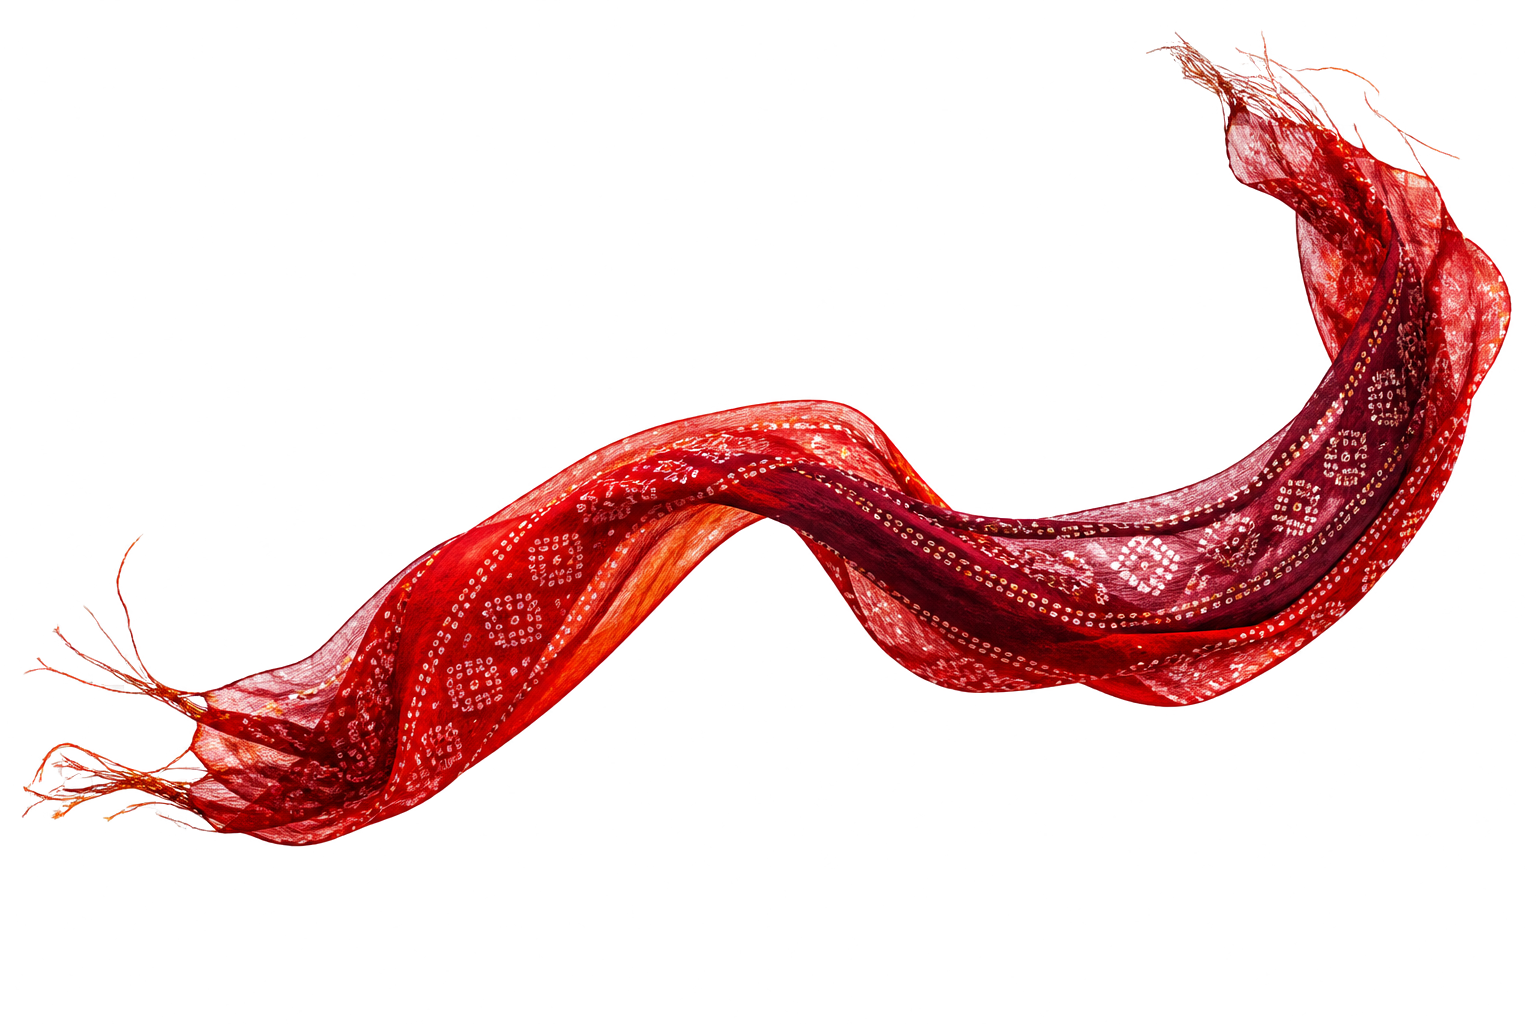
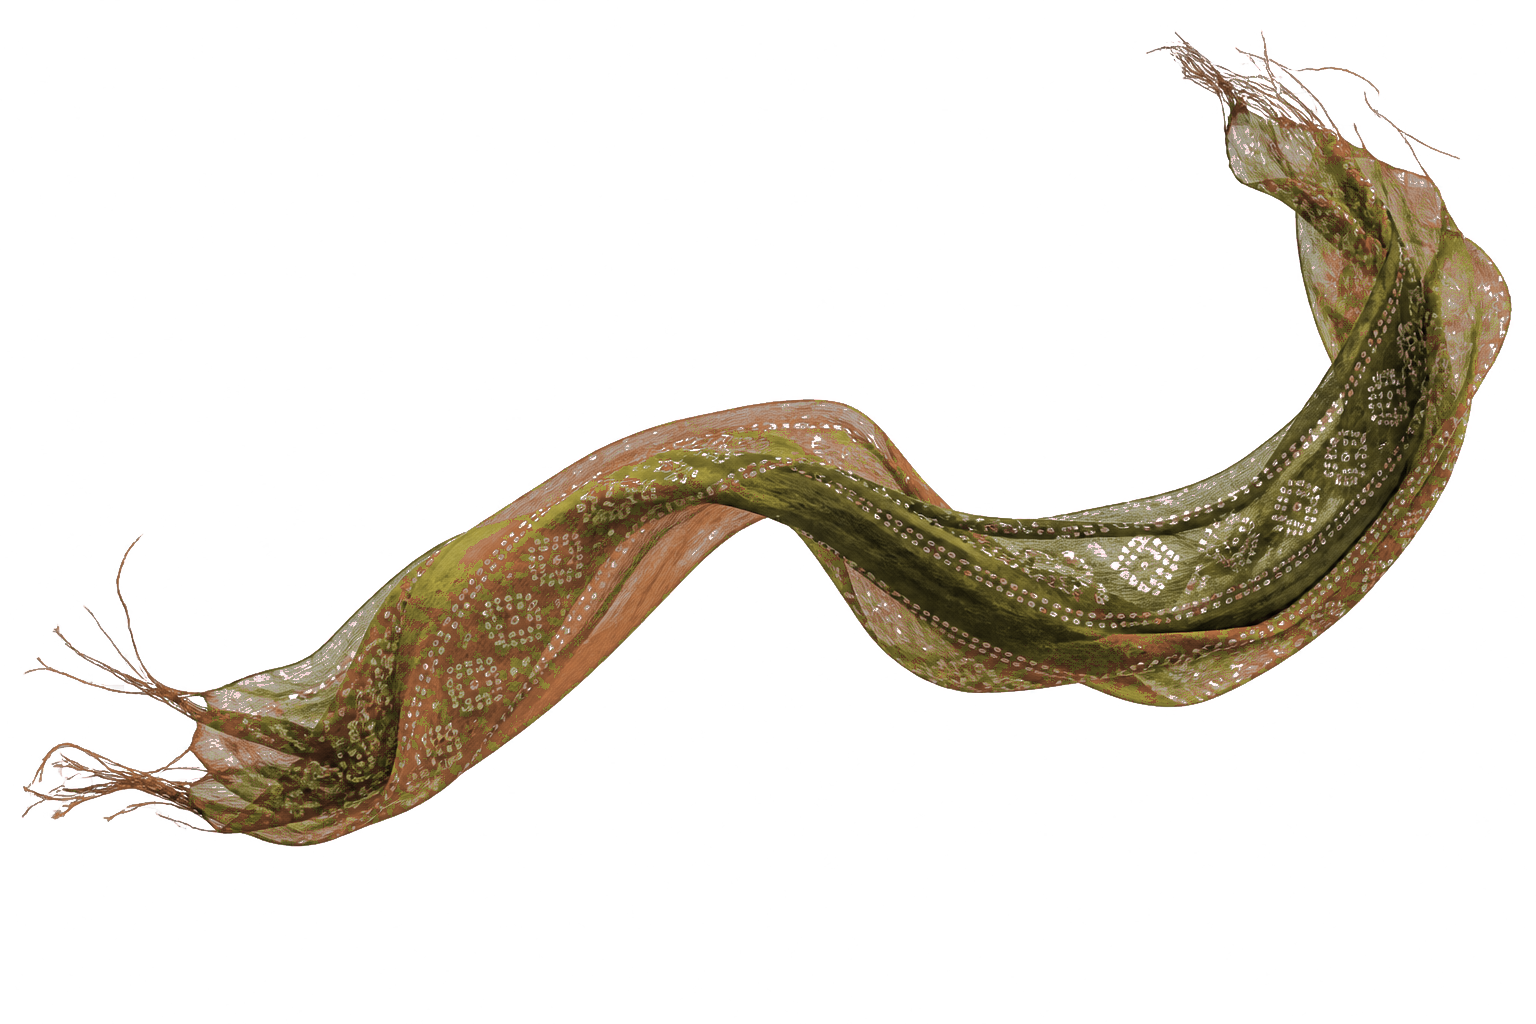
Recolor splash cloths to olive and umber, restore top navigation
Earth-tone textiles now match the parchment splash, and the page
selection bar sits at the top of the home page again.

Changed region(s): [[0.0, 0.0312, 1.0, 0.8438]]

diff --git a/index.html b/index.html
@@ -8,9 +8,19 @@
   <link rel="preconnect" href="https://fonts.gstatic.com" crossorigin />
   <link href="https://fonts.googleapis.com/css2?family=Playfair+Display:ital,wght@0,500;0,700;1,500&family=Cormorant+Garamond:ital,wght@0,400;0,500;0,600;1,400&family=Jost:wght@300;400;500&family=Nunito:wght@700;800&display=swap" rel="stylesheet" />
   <link rel="icon" type="image/png" href="images/favicon.png" />
-  <link rel="stylesheet" href="css/style.css?v=4" />
+  <link rel="stylesheet" href="css/style.css?v=5" />
 </head>
 <body>
+  <nav class="topnav">
+    <a class="brand" href="index.html"><img class="brand-logo" src="images/logo.png" alt="Weave-a-World logo" />Weave-a-World</a>
+    <div class="topnav-links">
+      <a href="index.html" class="active">Home</a>
+      <a href="collection.html">The Ten Dyes</a>
+      <a href="youth.html">Youth Action</a>
+      <a href="about.html">About Us</a>
+    </div>
+  </nav>
+
   <section class="splash" aria-label="Weave a World">
     <div class="splash-bg"></div>
     <div class="splash-grain" aria-hidden="true"></div>
@@ -35,16 +45,6 @@
     </div>
     <a class="splash-scroll" href="#intro">enter the collection</a>
   </section>
-
-  <nav class="topnav">
-    <a class="brand" href="index.html"><img class="brand-logo" src="images/logo.png" alt="Weave-a-World logo" />Weave-a-World</a>
-    <div class="topnav-links">
-      <a href="index.html" class="active">Home</a>
-      <a href="collection.html">The Ten Dyes</a>
-      <a href="youth.html">Youth Action</a>
-      <a href="about.html">About Us</a>
-    </div>
-  </nav>
 
   <header class="hero-home" id="intro">
     <div class="shell hero-home-grid">
@@ -170,6 +170,6 @@
       <p>The Living Colours · Ten Educational Posters on Cultural Preservation · By Charles Huang (Hong Kong SAR)</p>
     </div>
   </footer>
-  <script src="js/main.js?v=4"></script>
+  <script src="js/main.js?v=5"></script>
 </body>
 </html>

diff --git a/dyes/birch-bark-finland.html b/dyes/birch-bark-finland.html
@@ -8,7 +8,7 @@
   <link rel="preconnect" href="https://fonts.gstatic.com" crossorigin />
   <link href="https://fonts.googleapis.com/css2?family=Playfair+Display:ital,wght@0,500;0,700;1,500&family=Cormorant+Garamond:ital,wght@0,400;0,500;0,600;1,400&family=Jost:wght@300;400;500&family=Nunito:wght@700;800&display=swap" rel="stylesheet" />
   <link rel="icon" type="image/png" href="../images/favicon.png" />
-  <link rel="stylesheet" href="../css/style.css?v=4" />
+  <link rel="stylesheet" href="../css/style.css?v=5" />
   <style>
     :root { --accent: #a37f3d; --accent-deep: #66501f; --accent-soft: #f5efe1; }
   </style>
@@ -189,6 +189,6 @@
       <p>The Living Colours · Ten Educational Posters on Cultural Preservation · By Charles Huang (Hong Kong SAR)</p>
     </div>
   </footer>
-  <script src="../js/main.js?v=4"></script>
+  <script src="../js/main.js?v=5"></script>
 </body>
 </html>

diff --git a/dyes/cochineal-mexico-peru.html b/dyes/cochineal-mexico-peru.html
@@ -8,7 +8,7 @@
   <link rel="preconnect" href="https://fonts.gstatic.com" crossorigin />
   <link href="https://fonts.googleapis.com/css2?family=Playfair+Display:ital,wght@0,500;0,700;1,500&family=Cormorant+Garamond:ital,wght@0,400;0,500;0,600;1,400&family=Jost:wght@300;400;500&family=Nunito:wght@700;800&display=swap" rel="stylesheet" />
   <link rel="icon" type="image/png" href="../images/favicon.png" />
-  <link rel="stylesheet" href="../css/style.css?v=4" />
+  <link rel="stylesheet" href="../css/style.css?v=5" />
   <style>
     :root { --accent: #9b1b30; --accent-deep: #5e0f1e; --accent-soft: #f5e3e6; }
   </style>
@@ -189,6 +189,6 @@
       <p>The Living Colours · Ten Educational Posters on Cultural Preservation · By Charles Huang (Hong Kong SAR)</p>
     </div>
   </footer>
-  <script src="../js/main.js?v=4"></script>
+  <script src="../js/main.js?v=5"></script>
 </body>
 </html>

diff --git a/dyes/henna-north-africa-india.html b/dyes/henna-north-africa-india.html
@@ -8,7 +8,7 @@
   <link rel="preconnect" href="https://fonts.gstatic.com" crossorigin />
   <link href="https://fonts.googleapis.com/css2?family=Playfair+Display:ital,wght@0,500;0,700;1,500&family=Cormorant+Garamond:ital,wght@0,400;0,500;0,600;1,400&family=Jost:wght@300;400;500&family=Nunito:wght@700;800&display=swap" rel="stylesheet" />
   <link rel="icon" type="image/png" href="../images/favicon.png" />
-  <link rel="stylesheet" href="../css/style.css?v=4" />
+  <link rel="stylesheet" href="../css/style.css?v=5" />
   <style>
     :root { --accent: #8c4a1f; --accent-deep: #582b0f; --accent-soft: #f6ebe0; }
   </style>
@@ -189,6 +189,6 @@
       <p>The Living Colours · Ten Educational Posters on Cultural Preservation · By Charles Huang (Hong Kong SAR)</p>
     </div>
   </footer>
-  <script src="../js/main.js?v=4"></script>
+  <script src="../js/main.js?v=5"></script>
 </body>
 </html>

diff --git a/dyes/indigo-west-africa.html b/dyes/indigo-west-africa.html
@@ -8,7 +8,7 @@
   <link rel="preconnect" href="https://fonts.gstatic.com" crossorigin />
   <link href="https://fonts.googleapis.com/css2?family=Playfair+Display:ital,wght@0,500;0,700;1,500&family=Cormorant+Garamond:ital,wght@0,400;0,500;0,600;1,400&family=Jost:wght@300;400;500&family=Nunito:wght@700;800&display=swap" rel="stylesheet" />
   <link rel="icon" type="image/png" href="../images/favicon.png" />
-  <link rel="stylesheet" href="../css/style.css?v=4" />
+  <link rel="stylesheet" href="../css/style.css?v=5" />
   <style>
     :root { --accent: #2b3f6b; --accent-deep: #16233f; --accent-soft: #e4e9f2; }
   </style>
@@ -189,6 +189,6 @@
       <p>The Living Colours · Ten Educational Posters on Cultural Preservation · By Charles Huang (Hong Kong SAR)</p>
     </div>
   </footer>
-  <script src="../js/main.js?v=4"></script>
+  <script src="../js/main.js?v=5"></script>
 </body>
 </html>

diff --git a/dyes/logwood-caribbean.html b/dyes/logwood-caribbean.html
@@ -8,7 +8,7 @@
   <link rel="preconnect" href="https://fonts.gstatic.com" crossorigin />
   <link href="https://fonts.googleapis.com/css2?family=Playfair+Display:ital,wght@0,500;0,700;1,500&family=Cormorant+Garamond:ital,wght@0,400;0,500;0,600;1,400&family=Jost:wght@300;400;500&family=Nunito:wght@700;800&display=swap" rel="stylesheet" />
   <link rel="icon" type="image/png" href="../images/favicon.png" />
-  <link rel="stylesheet" href="../css/style.css?v=4" />
+  <link rel="stylesheet" href="../css/style.css?v=5" />
   <style>
     :root { --accent: #4a2c5c; --accent-deep: #2c1838; --accent-soft: #ece5f1; }
   </style>
@@ -189,6 +189,6 @@
       <p>The Living Colours · Ten Educational Posters on Cultural Preservation · By Charles Huang (Hong Kong SAR)</p>
     </div>
   </footer>
-  <script src="../js/main.js?v=4"></script>
+  <script src="../js/main.js?v=5"></script>
 </body>
 </html>

diff --git a/dyes/madder-india.html b/dyes/madder-india.html
@@ -8,7 +8,7 @@
   <link rel="preconnect" href="https://fonts.gstatic.com" crossorigin />
   <link href="https://fonts.googleapis.com/css2?family=Playfair+Display:ital,wght@0,500;0,700;1,500&family=Cormorant+Garamond:ital,wght@0,400;0,500;0,600;1,400&family=Jost:wght@300;400;500&family=Nunito:wght@700;800&display=swap" rel="stylesheet" />
   <link rel="icon" type="image/png" href="../images/favicon.png" />
-  <link rel="stylesheet" href="../css/style.css?v=4" />
+  <link rel="stylesheet" href="../css/style.css?v=5" />
   <style>
     :root { --accent: #a3402c; --accent-deep: #66261a; --accent-soft: #f6e6e1; }
   </style>
@@ -189,6 +189,6 @@
       <p>The Living Colours · Ten Educational Posters on Cultural Preservation · By Charles Huang (Hong Kong SAR)</p>
     </div>
   </footer>
-  <script src="../js/main.js?v=4"></script>
+  <script src="../js/main.js?v=5"></script>
 </body>
 </html>

diff --git a/dyes/marigold-navajo.html b/dyes/marigold-navajo.html
@@ -8,7 +8,7 @@
   <link rel="preconnect" href="https://fonts.gstatic.com" crossorigin />
   <link href="https://fonts.googleapis.com/css2?family=Playfair+Display:ital,wght@0,500;0,700;1,500&family=Cormorant+Garamond:ital,wght@0,400;0,500;0,600;1,400&family=Jost:wght@300;400;500&family=Nunito:wght@700;800&display=swap" rel="stylesheet" />
   <link rel="icon" type="image/png" href="../images/favicon.png" />
-  <link rel="stylesheet" href="../css/style.css?v=4" />
+  <link rel="stylesheet" href="../css/style.css?v=5" />
   <style>
     :root { --accent: #b07408; --accent-deep: #6f4a04; --accent-soft: #f8efdc; }
   </style>
@@ -189,6 +189,6 @@
       <p>The Living Colours · Ten Educational Posters on Cultural Preservation · By Charles Huang (Hong Kong SAR)</p>
     </div>
   </footer>
-  <script src="../js/main.js?v=4"></script>
+  <script src="../js/main.js?v=5"></script>
 </body>
 </html>

diff --git a/dyes/saffron-persia.html b/dyes/saffron-persia.html
@@ -8,7 +8,7 @@
   <link rel="preconnect" href="https://fonts.gstatic.com" crossorigin />
   <link href="https://fonts.googleapis.com/css2?family=Playfair+Display:ital,wght@0,500;0,700;1,500&family=Cormorant+Garamond:ital,wght@0,400;0,500;0,600;1,400&family=Jost:wght@300;400;500&family=Nunito:wght@700;800&display=swap" rel="stylesheet" />
   <link rel="icon" type="image/png" href="../images/favicon.png" />
-  <link rel="stylesheet" href="../css/style.css?v=4" />
+  <link rel="stylesheet" href="../css/style.css?v=5" />
   <style>
     :root { --accent: #c07419; --accent-deep: #7c480c; --accent-soft: #f9eedd; }
   </style>
@@ -189,6 +189,6 @@
       <p>The Living Colours · Ten Educational Posters on Cultural Preservation · By Charles Huang (Hong Kong SAR)</p>
     </div>
   </footer>
-  <script src="../js/main.js?v=4"></script>
+  <script src="../js/main.js?v=5"></script>
 </body>
 </html>

diff --git a/dyes/shibori-indigo-japan.html b/dyes/shibori-indigo-japan.html
@@ -8,7 +8,7 @@
   <link rel="preconnect" href="https://fonts.gstatic.com" crossorigin />
   <link href="https://fonts.googleapis.com/css2?family=Playfair+Display:ital,wght@0,500;0,700;1,500&family=Cormorant+Garamond:ital,wght@0,400;0,500;0,600;1,400&family=Jost:wght@300;400;500&family=Nunito:wght@700;800&display=swap" rel="stylesheet" />
   <link rel="icon" type="image/png" href="../images/favicon.png" />
-  <link rel="stylesheet" href="../css/style.css?v=4" />
+  <link rel="stylesheet" href="../css/style.css?v=5" />
   <style>
     :root { --accent: #1f3a5f; --accent-deep: #0f2038; --accent-soft: #e3e9f1; }
   </style>
@@ -189,6 +189,6 @@
       <p>The Living Colours · Ten Educational Posters on Cultural Preservation · By Charles Huang (Hong Kong SAR)</p>
     </div>
   </footer>
-  <script src="../js/main.js?v=4"></script>
+  <script src="../js/main.js?v=5"></script>
 </body>
 </html>

diff --git a/dyes/woad-celtic-europe.html b/dyes/woad-celtic-europe.html
@@ -8,7 +8,7 @@
   <link rel="preconnect" href="https://fonts.gstatic.com" crossorigin />
   <link href="https://fonts.googleapis.com/css2?family=Playfair+Display:ital,wght@0,500;0,700;1,500&family=Cormorant+Garamond:ital,wght@0,400;0,500;0,600;1,400&family=Jost:wght@300;400;500&family=Nunito:wght@700;800&display=swap" rel="stylesheet" />
   <link rel="icon" type="image/png" href="../images/favicon.png" />
-  <link rel="stylesheet" href="../css/style.css?v=4" />
+  <link rel="stylesheet" href="../css/style.css?v=5" />
   <style>
     :root { --accent: #3d5a80; --accent-deep: #22344c; --accent-soft: #e6ecf3; }
   </style>
@@ -189,6 +189,6 @@
       <p>The Living Colours · Ten Educational Posters on Cultural Preservation · By Charles Huang (Hong Kong SAR)</p>
     </div>
   </footer>
-  <script src="../js/main.js?v=4"></script>
+  <script src="../js/main.js?v=5"></script>
 </body>
 </html>

diff --git a/collection.html b/collection.html
@@ -8,7 +8,7 @@
   <link rel="preconnect" href="https://fonts.gstatic.com" crossorigin />
   <link href="https://fonts.googleapis.com/css2?family=Playfair+Display:ital,wght@0,500;0,700;1,500&family=Cormorant+Garamond:ital,wght@0,400;0,500;0,600;1,400&family=Jost:wght@300;400;500&family=Nunito:wght@700;800&display=swap" rel="stylesheet" />
   <link rel="icon" type="image/png" href="images/favicon.png" />
-  <link rel="stylesheet" href="css/style.css?v=4" />
+  <link rel="stylesheet" href="css/style.css?v=5" />
 </head>
 <body>
   <nav class="topnav">
@@ -182,6 +182,6 @@
       <p>The Living Colours · Ten Educational Posters on Cultural Preservation · By Charles Huang (Hong Kong SAR)</p>
     </div>
   </footer>
-  <script src="js/main.js?v=4"></script>
+  <script src="js/main.js?v=5"></script>
 </body>
 </html>
